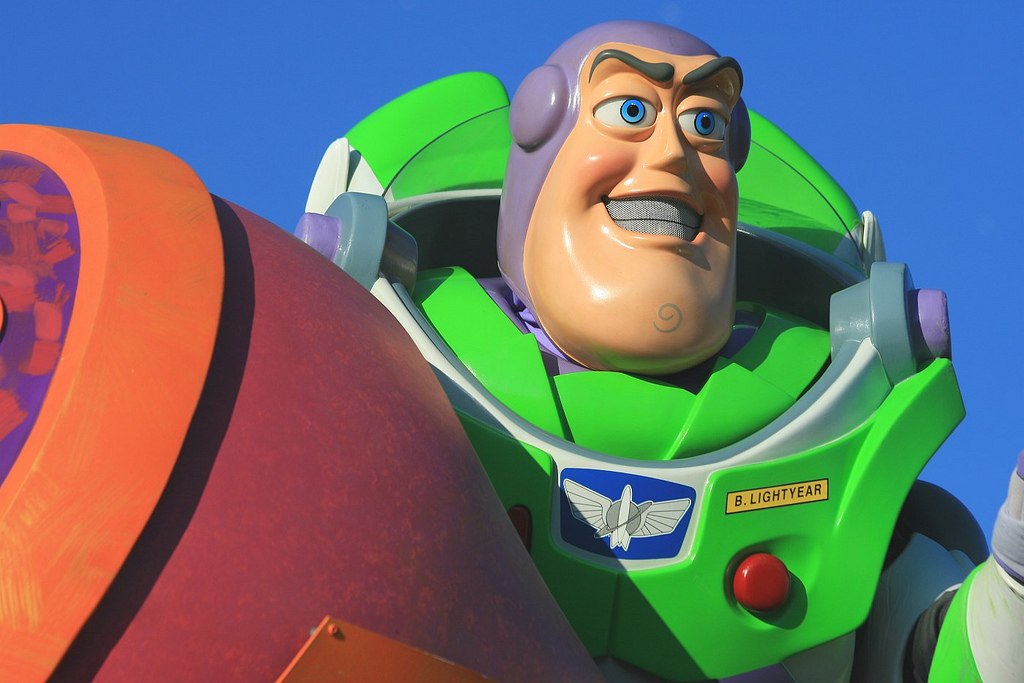
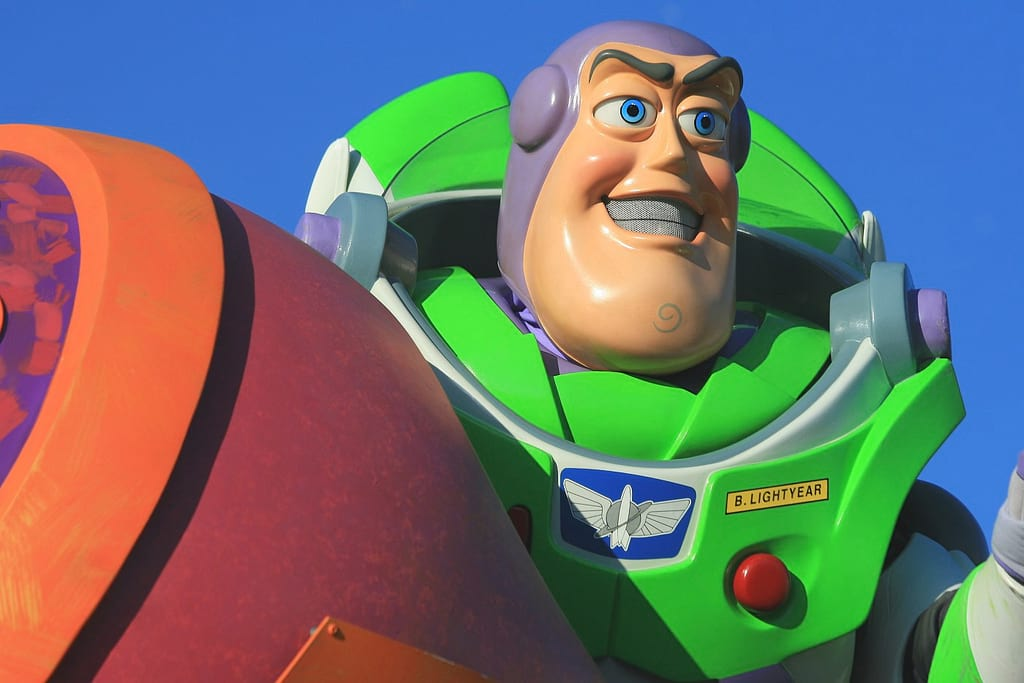
Image optim

diff --git a/public/index.html b/public/index.html
@@ -833,7 +833,7 @@ pre .xml .cdata {
     <section class="slide-content"><div class="credit"><a href="https://www.flickr.com/photos/scobleizer/4697192856">Robert Scoble</a></div></section>
   </div>
   <div class="slide hidden" id="slide-4">
-    <section class="slide-content"><p><img src="images/internet_usage_2009_2016_ww.png" alt="StatCounter mobile vs desktop graph"></p>
+    <section class="slide-content"><p><img src="images/internet_usage_2009_2016_ww.jpg" alt="StatCounter mobile vs desktop graph"></p>
 <!-- ![xkcd cartoon, Mac/PC](images/xkcd_mac_pc.png) -->
 <!-- <div class="credit">[xkcd](http://xkcd.com/934/)</div> -->
 
@@ -847,7 +847,7 @@ pre .xml .cdata {
 <!-- <div class="credit">[comScore](http://www.comscore.com/Insights/Presentations-and-Whitepapers/2016/The-2016-US-Mobile-App-Report) via [recode.net](http://www.recode.net/2016/9/16/12933780/average-app-downloads-per-month-comscore)</div> --></section>
   </div>
   <div class="slide hidden" id="slide-5">
-    <section class="slide-content"><p><img src="images/comscore-mobile-web-crop.png" alt="comScore mobile web reach"></p>
+    <section class="slide-content"><p><img src="images/comscore-mobile-web-crop.jpg" alt="comScore mobile web reach"></p>
 </section>
   </div>
   <div class="slide hidden  bg-best-of-both bg-fade" id="slide-6">
@@ -880,15 +880,15 @@ pre .xml .cdata {
 <!-- > &ldquo;PWAs are all about removing friction&rdquo; 🏎--></section>
   </div>
   <div class="slide hidden" id="slide-8">
-    <section class="slide-content"><p><img src="images/web-native-parity.png" alt="Web nearing parity with native"></p>
+    <section class="slide-content"><p><img src="images/web-native-parity.jpg" alt="Web nearing parity with native"></p>
 <div class="credit"><a href="https://www.youtube.com/watch?v=YJwrBbze_Ec">What Comes Next For The Web? - Paul Kinlan</a></div></section>
   </div>
   <div class="slide hidden  bg-white" id="slide-9">
-    <section class="slide-content"><p><a href="https://twitter.com/nicoinch/status/745216197004754944"><img src="images/pwa-dev-summit.png" alt="Browser representation at PWA Dev Summit"></a></p>
+    <section class="slide-content"><p><a href="https://twitter.com/nicoinch/status/745216197004754944"><img src="images/pwa-dev-summit.jpg" alt="Browser representation at PWA Dev Summit"></a></p>
 </section>
   </div>
   <div class="slide hidden  bg-white" id="slide-10">
-    <section class="slide-content"><p><a href="https://twitter.com/necolas/status/829128165314306048"><img src="images/twitter-pwa.png" alt="Twitter moved to a PWA"></a></p>
+    <section class="slide-content"><p><a href="https://twitter.com/necolas/status/829128165314306048"><img src="images/twitter-pwa.jpg" alt="Twitter moved to a PWA"></a></p>
 <!-- img-with-caption -->
 <!-- [![podle.audio](images/podle-samsunginternet5_2.png)](https://podle.audio) -->
 <!-- <div class="caption">[podle.audio](https://podle.audio)</div> --></section>
@@ -902,7 +902,7 @@ pre .xml .cdata {
 <div class="caption"><a href="https://outweb.io">outweb.io</a></div></section>
   </div>
   <div class="slide hidden  img-with-caption" id="slide-13">
-    <section class="slide-content"><p><a href="https://cloudfour.com/thinks/progressive-web-apps-simply-make-sense/"><img src="images/pwas-simply-make-sense.png" alt="PWAs simply make sense"></a></p>
+    <section class="slide-content"><p><a href="https://cloudfour.com/thinks/progressive-web-apps-simply-make-sense/"><img src="images/pwas-simply-make-sense.jpg" alt="PWAs simply make sense"></a></p>
 <div class="caption"><a href="https://cloudfour.com/thinks/progressive-web-apps-simply-make-sense/">cloudfour.com/thinks/progressive-web-apps-simply-make-sense/</a></div></section>
   </div>
   <div class="slide hidden  bg-buzz-nasa bg-fade beyond beyond-small" id="slide-14">
@@ -940,7 +940,7 @@ pre .xml .cdata {
 </section>
   </div>
   <div class="slide hidden  img-with-caption four-images" id="slide-17">
-    <section class="slide-content"><p><img src="images/snapwat-android-a2h-1.png" alt="Add to homescreen (1)"> <img src="images/snapwat-android-a2h-2.png" alt="Add to homescreen (2)"> <img src="images/snapwat-android-a2h-3.png" alt="Add to homescreen (3)"> <img src="images/snapwat-android-a2h-4.png" alt="Add to homescreen (4)"></p>
+    <section class="slide-content"><p><img src="images/snapwat-android-a2h-1.png" alt="Add to homescreen (1)"> <img src="images/snapwat-android-a2h-2.png" alt="Add to homescreen (2)"> <img src="images/snapwat-android-a2h-3.jpg" alt="Add to homescreen (3)"> <img src="images/snapwat-android-a2h-4.png" alt="Add to homescreen (4)"></p>
 <div class="caption"><a href="https://developers.google.com/web/updates/2017/02/improved-add-to-home-screen">developers.google.com/web/updates/2017/02/improved-add-to-home-screen</a></div>
 
 <div class="corner-logos"><img src="images/chrome.png" alt="Chrome"></div>
@@ -1002,7 +1002,7 @@ self.addEventListener(<span class="hljs-string">'fetch'</span>, ...);</code></pr
 <div class="caption"><a href="https://medium.com/the-guardian-mobile-innovation-lab/building-the-guardians-live-elections-notifications-87bafbcf510">&ldquo;Building the Guardian’s Live Elections Notifications&rdquo;</a></div></section>
   </div>
   <div class="slide hidden  img-with-caption" id="slide-25">
-    <section class="slide-content"><p><img src="images/podle-push-notification.png" alt="Podle push notification"></p>
+    <section class="slide-content"><p><img src="images/podle-push-notification.jpg" alt="Podle push notification"></p>
 <div class="caption"><a href="https://podle.audio">podle.audio</a></div>
 
 <!-- [bit.ly/web-fundamentals-push-notifications](http://bit.ly/web-fundamentals-push-notifications) -->
@@ -1126,7 +1126,7 @@ self.addEventListener(<span class="hljs-string">'fetch'</span>, ...);</code></pr
 <iframe width="90%" height="90%" style="margin-top:5vh" src="https://www.youtube.com/embed/mN9G6lQKVsI" frameborder="0" allowfullscreen></iframe></section>
   </div>
   <div class="slide hidden  img-with-caption" id="slide-37">
-    <section class="slide-content"><p><a href="https://github.com/aframevr/a-painter/issues/99"><img src="images/apainter-feiss.png" alt="A-Painting by feiss"></a></p>
+    <section class="slide-content"><p><a href="https://github.com/aframevr/a-painter/issues/99"><img src="images/apainter-feiss.jpg" alt="A-Painting by feiss"></a></p>
 <div class="caption">Via the <a href="https://github.com/aframevr/a-painter/issues/99">A-Frame Gallery</a></div></section>
   </div>
   <div class="slide hidden  img-with-caption" id="slide-38">

diff --git a/src/index.md b/src/index.md
@@ -28,7 +28,7 @@ controls: true
 
 --
 
-![StatCounter mobile vs desktop graph](images/internet_usage_2009_2016_ww.png)
+![StatCounter mobile vs desktop graph](images/internet_usage_2009_2016_ww.jpg)
 
 <!-- ![xkcd cartoon, Mac/PC](images/xkcd_mac_pc.png) -->
 <!-- <div class="credit">[xkcd](http://xkcd.com/934/)</div> -->
@@ -44,7 +44,7 @@ controls: true
 
 --
 
-![comScore mobile web reach](images/comscore-mobile-web-crop.png)
+![comScore mobile web reach](images/comscore-mobile-web-crop.jpg)
 
 -- bg-best-of-both bg-fade
 
@@ -80,17 +80,17 @@ controls: true
 
 --
 
-![Web nearing parity with native](images/web-native-parity.png)
+![Web nearing parity with native](images/web-native-parity.jpg)
 
 <div class="credit">[What Comes Next For The Web? - Paul Kinlan](https://www.youtube.com/watch?v=YJwrBbze_Ec)</div>
 
 -- bg-white
 
-[![Browser representation at PWA Dev Summit](images/pwa-dev-summit.png)](https://twitter.com/nicoinch/status/745216197004754944)
+[![Browser representation at PWA Dev Summit](images/pwa-dev-summit.jpg)](https://twitter.com/nicoinch/status/745216197004754944)
 
 -- bg-white
 
-[![Twitter moved to a PWA](images/twitter-pwa.png)](https://twitter.com/necolas/status/829128165314306048)
+[![Twitter moved to a PWA](images/twitter-pwa.jpg)](https://twitter.com/necolas/status/829128165314306048)
 
 <!-- img-with-caption -->
 <!-- [![podle.audio](images/podle-samsunginternet5_2.png)](https://podle.audio) -->
@@ -110,7 +110,7 @@ controls: true
 
 -- img-with-caption
 
-[![PWAs simply make sense](images/pwas-simply-make-sense.png)](https://cloudfour.com/thinks/progressive-web-apps-simply-make-sense/)
+[![PWAs simply make sense](images/pwas-simply-make-sense.jpg)](https://cloudfour.com/thinks/progressive-web-apps-simply-make-sense/)
 
 <div class="caption">[cloudfour.com/thinks/progressive-web-apps-simply-make-sense/](https://cloudfour.com/thinks/progressive-web-apps-simply-make-sense/)</div>
 
@@ -157,7 +157,7 @@ controls: true
 
 -- img-with-caption four-images
 
-![Add to homescreen (1)](images/snapwat-android-a2h-1.png) ![Add to homescreen (2)](images/snapwat-android-a2h-2.png) ![Add to homescreen (3)](images/snapwat-android-a2h-3.png) ![Add to homescreen (4)](images/snapwat-android-a2h-4.png)
+![Add to homescreen (1)](images/snapwat-android-a2h-1.png) ![Add to homescreen (2)](images/snapwat-android-a2h-2.png) ![Add to homescreen (3)](images/snapwat-android-a2h-3.jpg) ![Add to homescreen (4)](images/snapwat-android-a2h-4.png)
 
 <div class="caption">[developers.google.com/web/updates/2017/02/improved-add-to-home-screen](https://developers.google.com/web/updates/2017/02/improved-add-to-home-screen)</div>
 
@@ -236,7 +236,7 @@ self.addEventListener('fetch', ...);
 
 -- img-with-caption
 
-![Podle push notification](images/podle-push-notification.png)
+![Podle push notification](images/podle-push-notification.jpg)
 
 <div class="caption">[podle.audio](https://podle.audio)</div>
 
@@ -379,7 +379,7 @@ navigator.bluetooth.requestDevice({
 
 -- img-with-caption
 
-[![A-Painting by feiss](images/apainter-feiss.png)](https://github.com/aframevr/a-painter/issues/99)
+[![A-Painting by feiss](images/apainter-feiss.jpg)](https://github.com/aframevr/a-painter/issues/99)
 
 <div class="caption">Via the [A-Frame Gallery](https://github.com/aframevr/a-painter/issues/99)</div>
 
